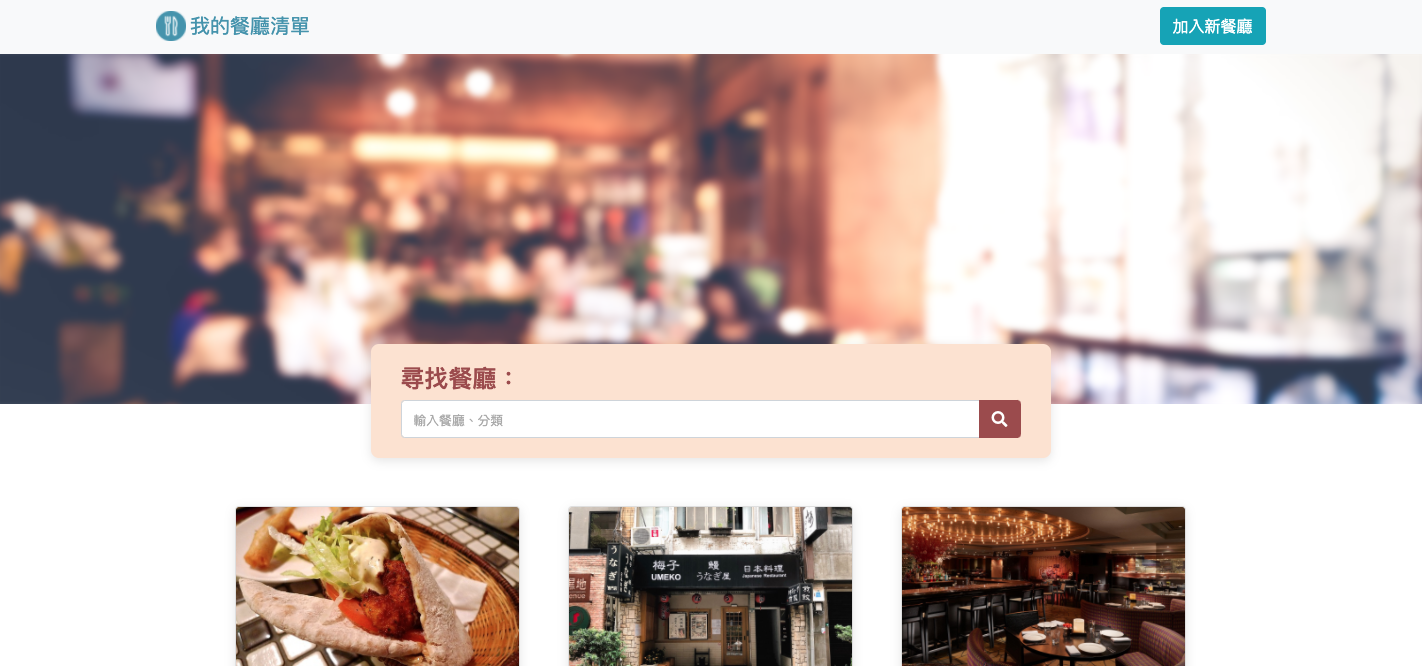
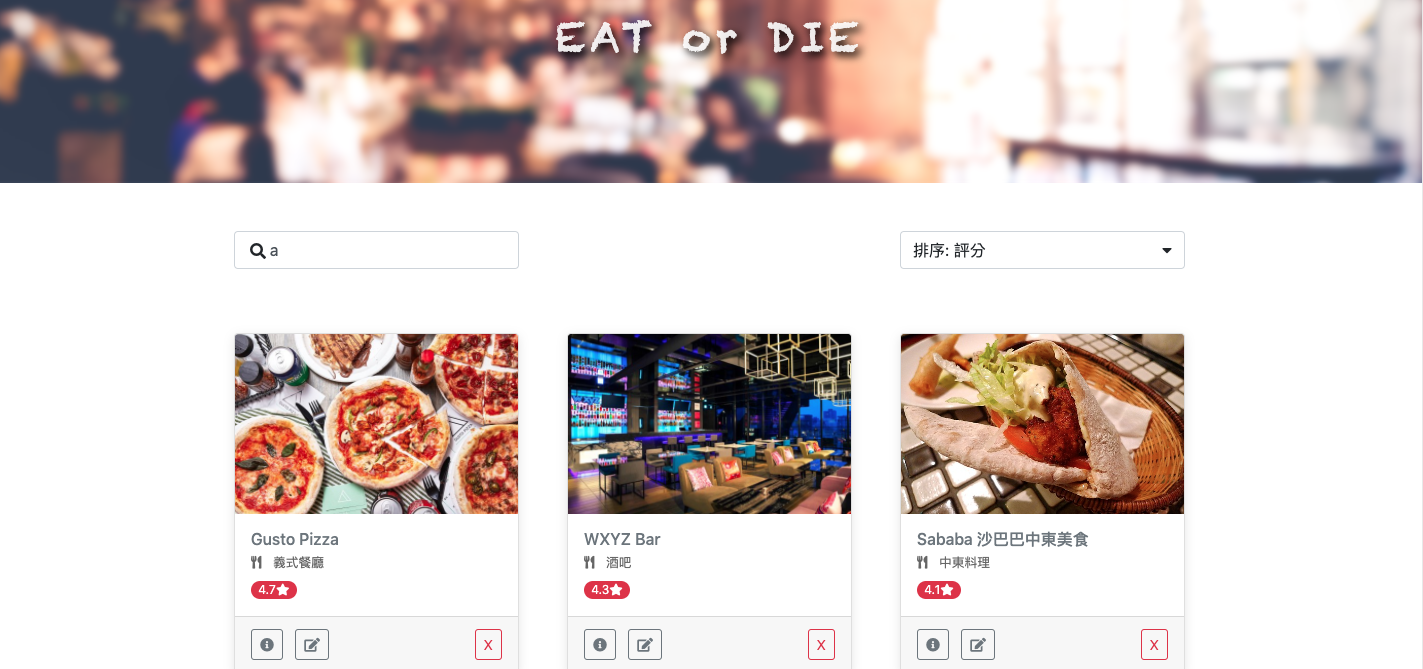
update README and web image

diff --git a/routes/modules/home.js b/routes/modules/home.js
@@ -18,7 +18,6 @@ router.get('/search', (req, res) => {
   const type = req.query.type
   const sequence = req.query.sequence
   const name = req.query.name
-
   // find   
   Restaurant.find({$or:[{name: new RegExp(keyword, 'i')}, {category: new RegExp(keyword, 'i')}]})
             .lean()

diff --git a/README.md b/README.md
@@ -17,12 +17,14 @@
 4. Mongoose
 5. Body-parser
 6. Nodemon
+7. Method-override
 
 - ## Features :
 1. View all collected restaurant in the index page.
 2. Checkout more restaurant information by clicking cards in the index page.
 3. Search restaurants with search bar.
 4. Edit and delete restaurants.
+5. Sort restaurants by name, location, category, and rating.
 
 - ## Application installation :
 1. ### For macOS users: open Terminal, Widows users should open Git Bash as well.
